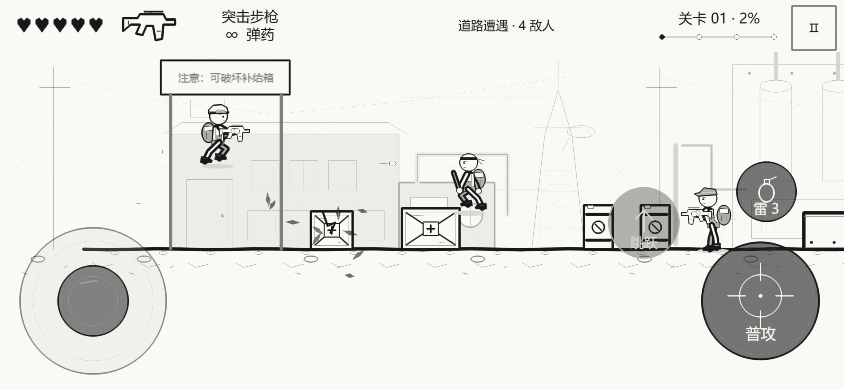
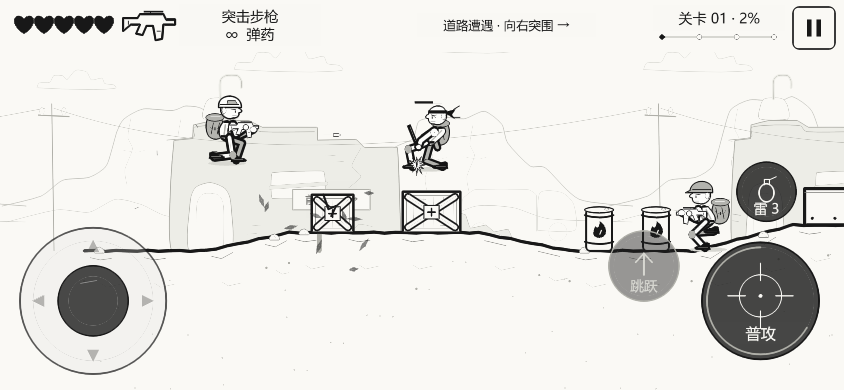
Record verified V0.4.2 Pages deployment

diff --git a/DEVELOPMENT.md b/DEVELOPMENT.md
@@ -38,6 +38,8 @@ SceneryArt 用带弧度的不规则岩壁、侵蚀裂纹、破损屋顶、拱门
 
 构建结束后单独复测 Chromium 153 / SwiftShader 软件渲染，3 秒抽样为 18.87 FPS、22 个 >50ms 长帧，本机未达到 60FPS。人物曲线细节仍逐帧生成，下一步应先缓存装备/头部等可复用绘图并进行手机性能校准；此轮不声称真机帧率达标。
 
+GitHub Pages 已发布 V0.4.2（游戏源码提交 5db9894），公开站点的 41 个 Cocos 文件逐字节匹配本地包。线上桌面移动/跳跃/射击/暂停，以及 844×390 三指触控、独立释放、浮动摇杆、右侧空白射击、全视口、竖屏冻结和旋转恢复全部通过，应用错误与失败请求均为 0。证据见 reports/github-pages-verification.json。
+
 最终计数、整局结果与包体以 reports/verification.json 为准。新增漏敌路线以 reports/v042-bypass.json 为准；坡面实操位置与高度见 reports/v042-terrain.json。图像证据仍复用已有视觉回归的 reports/v041-_.png、v021-blast-_.png，并新增 v042-bypassed-boss.png、v042-road-running.png、v042-road-return.png。
 
 ## 验证边界与后续
